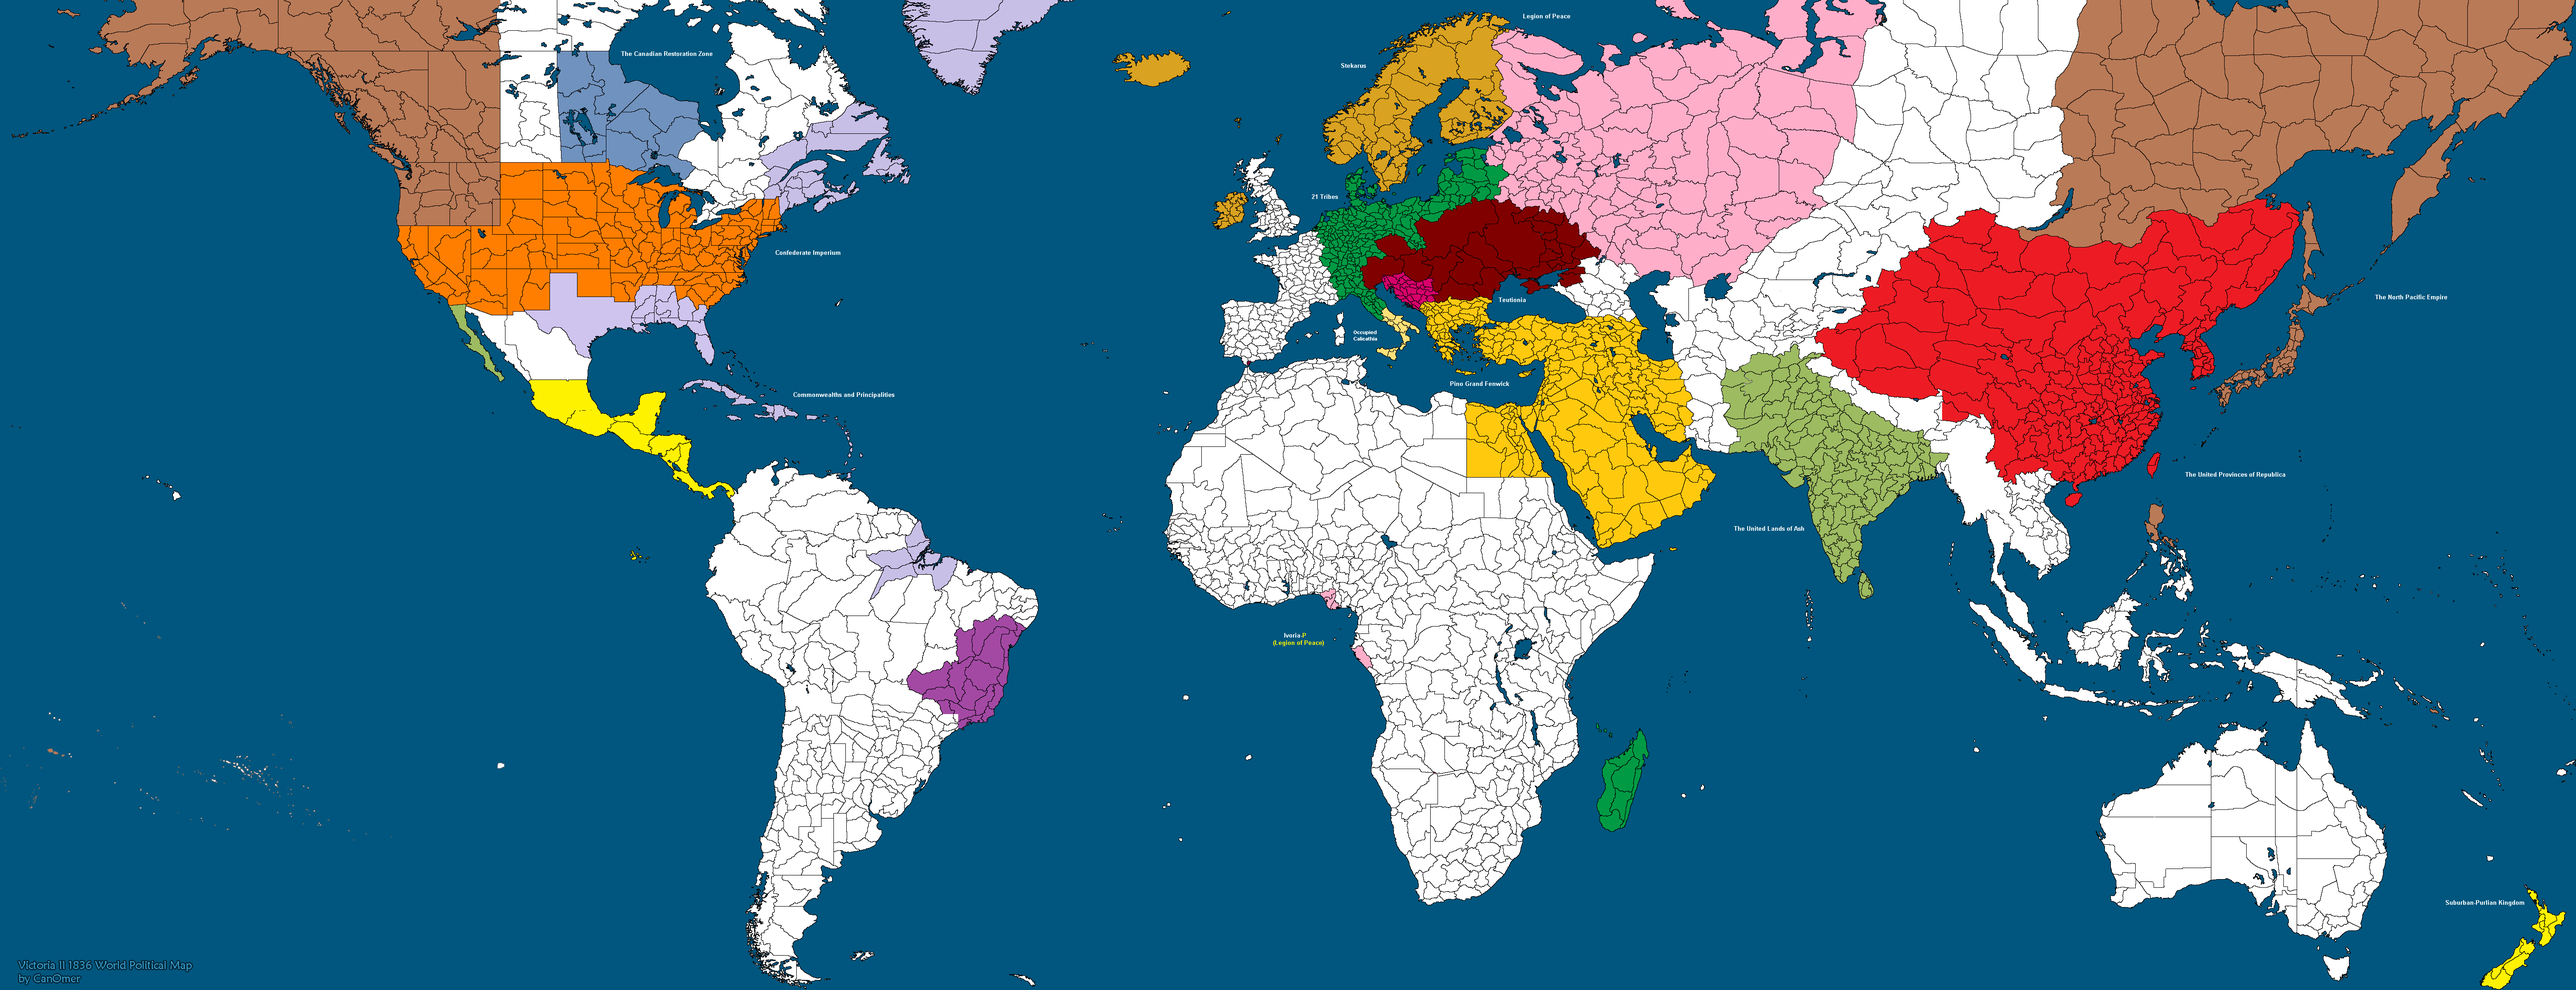
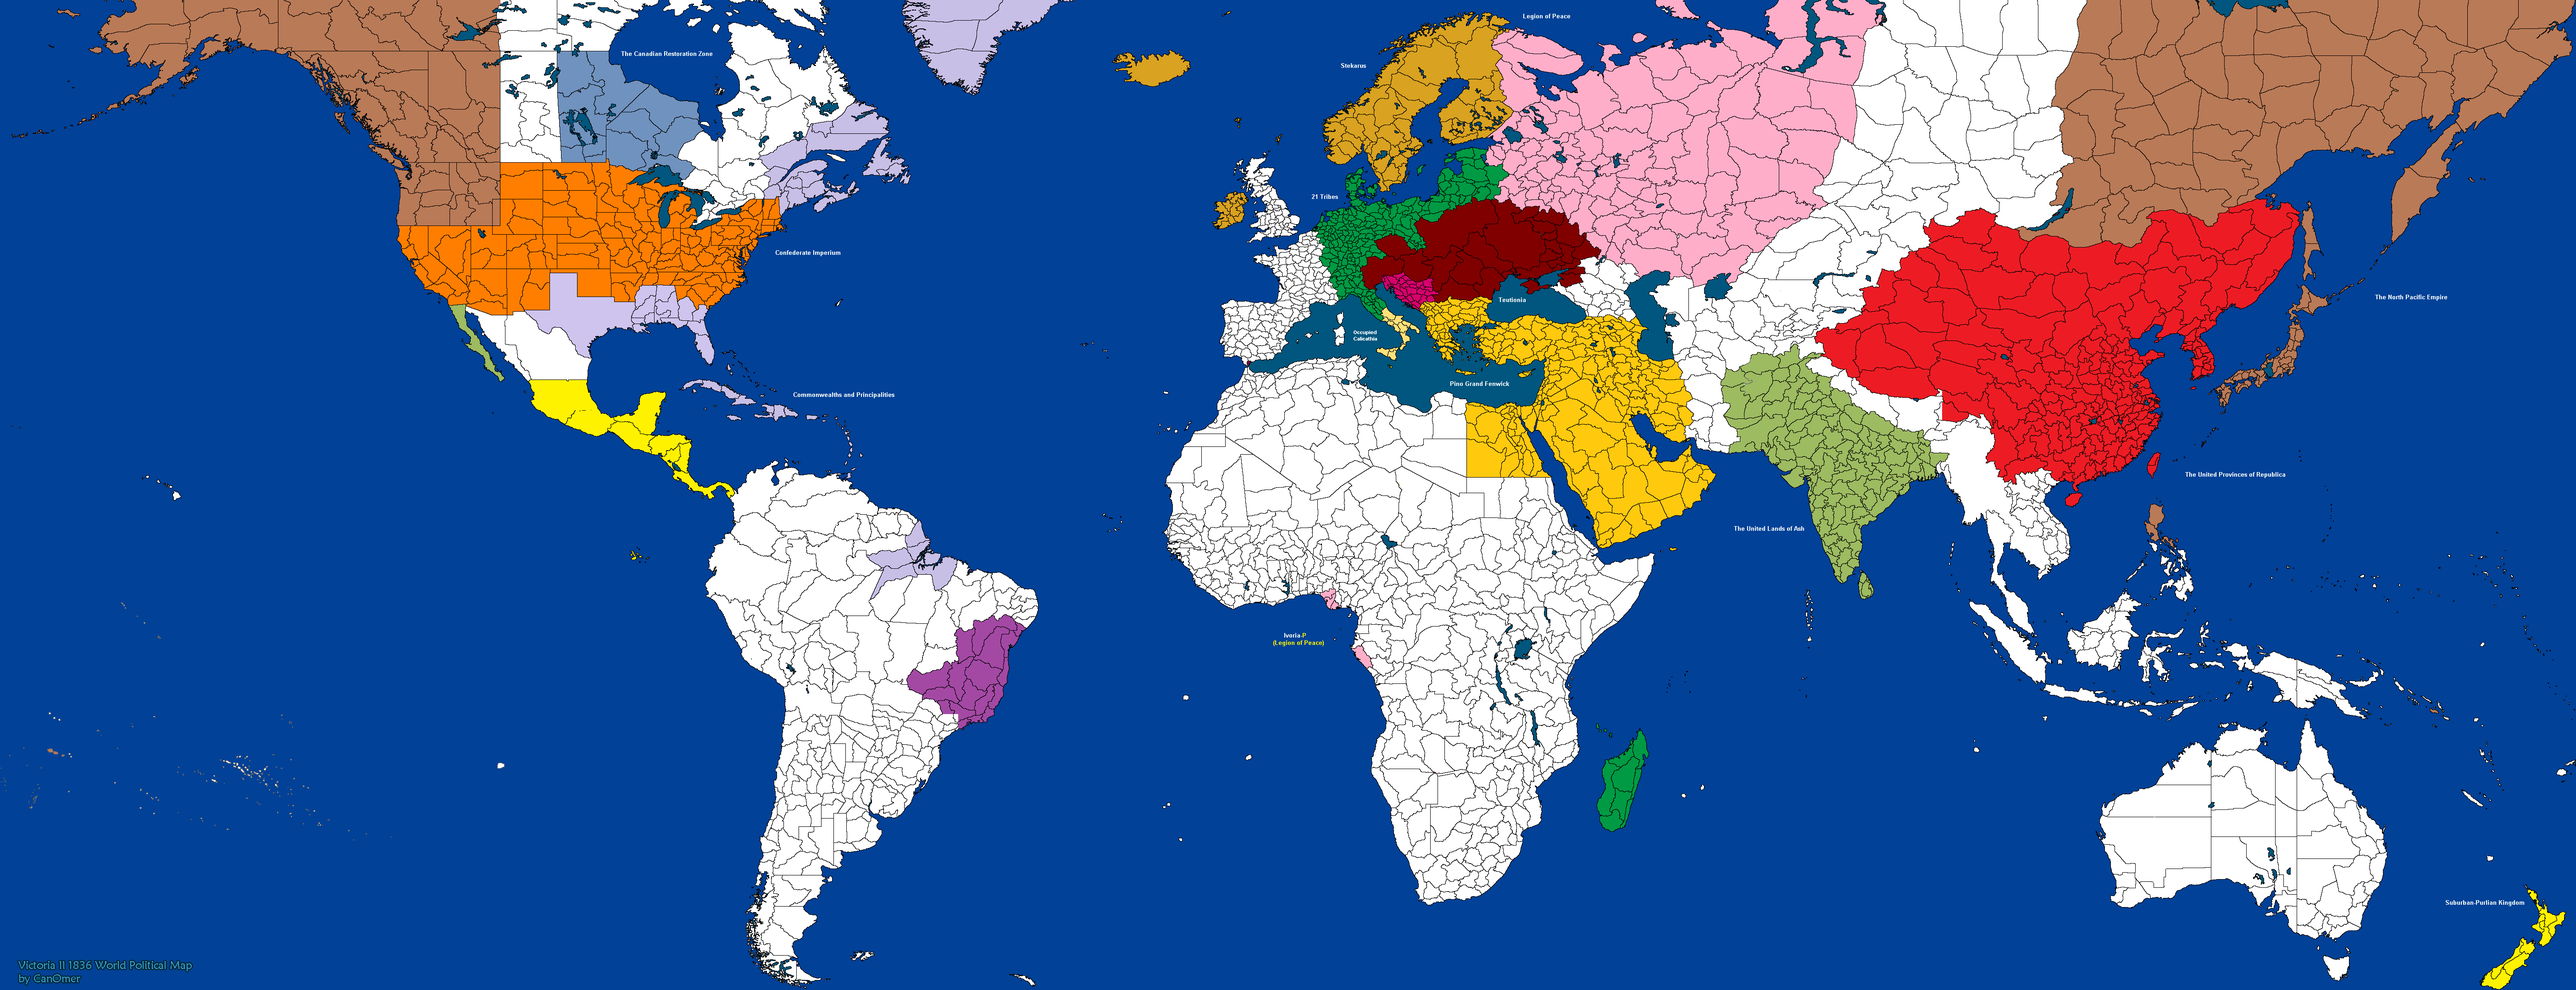
fixed the shite

diff --git a/index.html b/index.html
@@ -12,7 +12,7 @@
   
     gtag('config', 'UA-106544095-1');
   </script>
-      <link rel="prefetch" as="image" href="coordinategrid.png">
+      <link rel="prefetch" as="image" href="hyperlanegrid.png">
     <link href="https://fonts.googleapis.com/css?family=Karla:400,400i,700,700i" rel="stylesheet">
     <link href="https://fonts.googleapis.com/css?family=Rubik:500,700" rel="stylesheet">
     <link rel="stylesheet" href="mapColor.css">
@@ -20,7 +20,7 @@
   <body>
 
   <div id="divHeading">
-      <button style="font-weight: 700;" id="spaceButton"  class="tablinks tab buttons buttonBehaviour" onclick="openMap(event, 'SpaceTab');document.body.style.backgroundColor = '#484848';">SPACE</button>
+      <button style="font-weight: 700;" id="spaceButton"  class="tablinks tab buttons buttonBehaviour" onclick="openMap(event, 'SpaceTab');document.body.style.backgroundColor = '#fdc72e';">SPACE</button>
       <button style="font-weight: 700;" id="earthButton"  class="tablinks tab buttons buttonBehaviour" onclick="openMap(event, 'EarthTab');document.body.style.backgroundColor = '#014197';">EARTH</button>
       <button style="font-weight: 700;" class="tablinks tab buttons buttonBehaviour" onclick="openMap(event, 'InfoTab');document.body.style.backgroundColor = '#f5f5f5';" id="info">+</button>
             <button id="regionheading" style="font-weight: 700;" class="buttons buttonBehaviour" >THE UNIVERSAL ORDER OF NATIONS</button>
@@ -95,7 +95,7 @@ background-color:#808080;
 .headings {
   text-align: left;
   padding-left:26%;
-  font-weight: 900;
+  font-weight: 700;
 }
 
 #table {
@@ -195,7 +195,7 @@ background-color:#808080;
       display: none;
       size:none;
     }
-    #coordinatebuttonDiv {
+    #hyperlanebuttonDiv {
       margin-top:30px;
       margin-bottom:20px;
     }
@@ -209,7 +209,7 @@ background-color:#808080;
   
   <div id="EarthTab" class="tabcontent">
     <div id="earth">
-      <img id="UONearthmap" src="Earth_Map" style="width: 100%;">
+      <img id="earthmap" src="Earth_Map.png" style="width: 100%;">
     </div>
     <div id="earthlegend" style="overflow-x:auto;">
 
@@ -275,46 +275,47 @@ background-color:#808080;
       </ul>
    </div>
 </div>
-      <div id="spaceDate" class="legendcontent" style="margin-top: 3%;margin-bottom: 2%;text-align:center;color:#f5f5f5">
-        <p>Updated 13th January 2019</p>
-      </div>
-    </div>
-  </div>
+		<div class="spaceDate" style="color:#000000">
+        	<p class="footer">Updated 13th January 2019</p>
+        	<p class="footer">Made by <img src="alexfavicon.png"> Alex and <img src="aidanfavicon.png"> Aidan</p>
+		</div>
+	</div>
+</div>
 
 
 <div id="SpaceTab" class="tabcontent">
     <div id="space">
-      <img id="spaceMap" style="width: 75%;">
+      <img id="spaceMap" style="width: 60%;">
     </div>
     <script>
-      document.getElementById("spaceMap").src = "Space_Map";
+      document.getElementById("spaceMap").src = "Space_Map.png";
   
       var clicked = false;
       
-      function clickCoordinate() {
-            document.getElementById("CoordinateButton").click();
+      function clickhyperlane() {
+            document.getElementById("hyperlaneButton").click();
     }
   
-      function toggleBtnClickCoordinate() {
+      function toggleBtnClickhyperlane() {
         var img = document.getElementById('spaceMap');
         if (clicked) {
-          img.src = "Coordinates.png";
+          img.src = "Space_Map_H.png";
           clicked = false;
         } else {
-          img.src = "SpaceMap.png";
+          img.src = "Space_Map.png";
           clicked = true;
         }
       }
-      toggleBtnClickCoordinate()
+      toggleBtnClickhyperlane()
   
     </script>
   
-    <div id="coordinatebuttonDiv" style="text-align: center; padding-top:3%;padding-bottom:5%;">
-      <a style="font-size: 25px; font-weight: 800;" onclick="toggleBtnClickCoordinate()" id="CoordinateButton">COORDINATES</a>
+    <div id="hyperlanebuttonDiv" style="text-align: center; padding-top:3%;padding-bottom:5%;">
+      <a style="font-size: 25px; font-weight: 800;" onclick="toggleBtnClickhyperlane()" id="hyperlaneButton">HYPERLANES</a>
     </div>
 
 
-  <div id="table">
+  <div id="table" style="color: #000000;">
      <div class="newHeadings">
         <ul class="list">
                 <li><div class="box placeholder"></div>PLACEHOLDER</li>
@@ -355,9 +356,11 @@ background-color:#808080;
                 <li><div class="box placeholder"></div>PLACEHOLDER</li>
         </ul>
      </div>
-     <div id="spaceDate" class="legendcontent" style="margin-top: 3%;margin-bottom: 2%">
-        <p>Updated 13th January 2019</p>
-      </div>
+
+	<div class="spaceDate" style="width:100%">
+        <p class="footer">Updated 13th January 2019</p>
+        <p class="footer">Made by <img src="alexfavicon.png"> Alex and <img src="aidanfavicon.png"> Aidan</p>
+	</div>
   </div>
 </div>
 
@@ -467,27 +470,45 @@ background-color:#808080;
         background-image: url(Space.png);
         background-image: url(EarthPlain.png);
         background-image: url(EarthDetailled.png);
-        background-image: url(coordinategrid.png);
+        background-image: url(hyperlanegrid.png);
   
     }
     #divHeading {
       background: #f5f5f5;
       font-weight: 900;
       text-align: left;
-      padding: 2%;
+      padding: 1.3%;
       vertical-align: middle;
       display: inline-block;
       width: 100%;
       box-sizing: border-box;
 
     }
+
+    .spaceDate {
+      margin-top:1cm;
+      background: #f5f5f5;
+      font-weight: 900;
+      text-align: left;
+      padding-top: 0.8%;
+      padding-bottom: 0.8%;
+      vertical-align: middle;
+      display: inline-block;
+      width: 100%;
+
+
+    }
+
+    .footer {
+    	padding-left: 1cm;
+    }
     
     #SpaceTab {
-      background: #808080;
+      background: #fdc72e;
     }
     
     #space {
-      background: #808080;
+      background: #fdc72e;
       text-align: center;
       padding-top: 1cm;
       image-rendering: smooth;
@@ -496,7 +517,7 @@ background-color:#808080;
    
     
     #spaceLabels {
-      background: #808080;
+      background: #fdc72e;
       color: #f5f5f5;
       text-align: center;
       padding-top: 1cm;
@@ -510,11 +531,11 @@ background-color:#808080;
       margin: 0.5em 0;
     }
     
-    #CoordinateButton.active {
+    #hyperlaneButton.active {
       background: #f5f5f5;
       color: #000000;
     }
-    #CoordinateButton:hover {
+    #hyperlaneButton:hover {
       background: #f5f5f5;
       color: #000000;
     }
@@ -589,7 +610,7 @@ background-color:#808080;
       outline: none;
       cursor: pointer;
     }
-    #CoordinateButton {
+    #hyperlaneButton {
       float: center;
       border: none;
       outline: none;
@@ -612,19 +633,21 @@ background-color:#808080;
     }
     
     #spaceButton:hover {
-      background-color: #e0e0e0;
+      background-color: #ffd45b;
     }
     #earthButton:hover {
-      background-color: #e0e0e0;
+      background-color: #0053c2;
+      color: #ffffff;
     }
     #defaultOpen.active {
       background-color: #014197;
     }
     #spaceButton.active {
-      background-color: #e0e0e0;
+      background-color: #fdc72e;
     }
     #earthButton.active {
-      background-color: #e0e0e0;
+      background-color: #014197;
+      color:#ffffff;
     }
     #info.active {
       background-color: #e0e0e0;
@@ -646,7 +669,7 @@ background-color:#808080;
       animation: fadeEffect 0.5s;
       vertical-align: middle;
     }
-    #CoordinateButton.active {
+    #hyperlaneButton.active {
       background-color: #ffffff;
     }
     @-webkit-keyframes fadeEffect {
